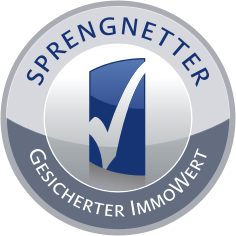
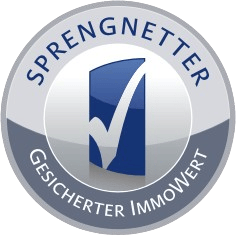
Removed background from graphics

diff --git a/index.html b/index.html
@@ -257,7 +257,7 @@
                                         <img src="./assets/img/hypZertGutachter.png" alt="Wir beschäftigen HypZert Gutachter" />
                                         <img src="./assets/img/mitgliedImIvd.png" alt="Mitglied im ivd" />
                                         <img src="./assets/img/vdivImmobilienverwalterBayern.png" alt="vdiv Die Immobilienverwalter Bayern" />
-                                        <img src="./assets/img/haus+grund.jpg" alt="HAUS+GRUND MÜNCHEN – HAUS- UND GRUNDBESITZERVEREIN MÜNCHEN und Umgebung e.V." />
+                                        <img src="./assets/img/haus+grund.png" alt="HAUS+GRUND MÜNCHEN – HAUS- UND GRUNDBESITZERVEREIN MÜNCHEN und Umgebung e.V." />
                                     </div>
                                 </div>
                             </div>
@@ -316,7 +316,7 @@
                                         <img src="./assets/img/neuer/DiaAbsolvent.jpeg" alt="Absolvent/in der Deutschen Immobilien-Akademie (DIA)" />
                                         <img src="./assets/img/SprengnetterGesicherterImmobilienwert-3D.png" alt="SPRENGNETTER Gesicherter ImmoWert" />
                                         <img src="./assets/img/SprengnetterImmoBesichtiger-Schadenerkennung.png" alt="SPRENGNETTER ImmoBesichtiger-Schadenerkennung" />
-                                        <img src="./assets/img/DIAZertMakler.jpg" alt="DIA Zert - Zertifiziert durch DIA Consulting AG nach EU-Norm DIN EN 15733" />
+                                        <img src="./assets/img/DIAZertMakler.png" alt="DIA Zert - Zertifiziert durch DIA Consulting AG nach EU-Norm DIN EN 15733" />
                                     </div>
                                 </div>
                             </div>
@@ -362,7 +362,7 @@
                         </div>
                         <div class="ivd-logos">
                             <img src="./assets/img/IVD_2025.png" alt="IVD Siegel 2025" />
-                            <img src="./assets/img/2025 - Siegel Partner-Marktforschung ivd schmal.jpg" alt="Partner der IVD-Marktforschung 2025" />
+                            <img src="./assets/img/2025 - Siegel Partner-Marktforschung ivd schmal.png" alt="Partner der IVD-Marktforschung 2025" />
                         </div>
                     </div>
                 </div>
